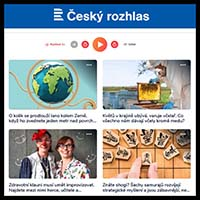
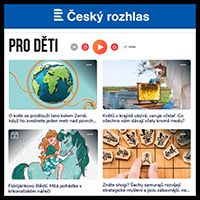
junior

diff --git a/src/Components/Literatura.js b/src/Components/Literatura.js
@@ -26,6 +26,8 @@ import odyssea from "../Pics/odyssea.jpg";
 import ucseonline from "../Pics/ucseonline.jpg";
 import vcelka from "../Pics/vcelka.jpg";
 import studijnisvet from "../Pics/studijnisvet.jpg";
+import rozhlasprodeti from "../Pics/rozhlasprodeti.jpg";
+import junior from "../Pics/junior.jpg";
 
 export const Literatura = () => {
   return (
@@ -185,6 +187,20 @@ export const Literatura = () => {
         rel="noreferrer"
       >
         <img className="obrazekKarty" src={studijnisvet} alt="Studijní svět" />
+      </a>
+      <a
+        href="https://www.mujrozhlas.cz/pro-deti"
+        target="_blank"
+        rel="noreferrer"
+      >
+        <img
+          className="obrazekKarty"
+          src={rozhlasprodeti}
+          alt="rozhlasprodeti"
+        />
+      </a>
+      <a href="https://junior.rozhlas.cz/" target="_blank" rel="noreferrer">
+        <img className="obrazekKarty" src={junior} alt="junior" />
       </a>
     </div>
   );

diff --git a/src/Components/Divadlo.js b/src/Components/Divadlo.js
@@ -5,6 +5,7 @@ import ddm from "../Pics/ddm.jpg";
 import idivadlo from "../Pics/idivadlo.jpg";
 import ctdivadlo from "../Pics/ctdivadlo.jpg";
 import rokoko from "../Pics/rokoko.jpg";
+import junior from "../Pics/junior.jpg";
 
 export const Divadlo = () => {
   return (
@@ -43,6 +44,9 @@ export const Divadlo = () => {
         rel="noreferrer"
       >
         <img className="obrazekKarty" src={rokoko} alt="rokoko" />{" "}
+      </a>
+      <a href="https://junior.rozhlas.cz/" target="_blank" rel="noreferrer">
+        <img className="obrazekKarty" src={junior} alt="junior" />
       </a>
     </div>
   );

diff --git a/src/Components/Rodinka.js b/src/Components/Rodinka.js
@@ -5,6 +5,7 @@ import pinterest from "../Pics/pinterest.jpg";
 import bankovkovi from "../Pics/bankovkovi.jpg";
 import cesty from "../Pics/cesty.jpg";
 import vmuzeudoma from "../Pics/vmuzeudoma.jpg";
+import junior from "../Pics/junior.jpg";
 
 export const Rodinka = () => {
   return (
@@ -43,6 +44,9 @@ export const Rodinka = () => {
           src={vmuzeudoma}
           alt="V muzeu jako doma"
         />
+      </a>
+      <a href="https://junior.rozhlas.cz/" target="_blank" rel="noreferrer">
+        <img className="obrazekKarty" src={junior} alt="junior" />
       </a>
     </div>
   );

diff --git a/src/Components/Rozsirujici.js b/src/Components/Rozsirujici.js
@@ -44,6 +44,7 @@ import mozaik from "../Pics/mozaik.jpg";
 import vedaliska from "../Pics/vedaliska.jpg";
 import sumava from "../Pics/sumava.jpg";
 import jedensvet from "../Pics/jedensvet.jpg";
+import junior from "../Pics/junior.jpg";
 
 export const Rozsirujici = () => {
   return (
